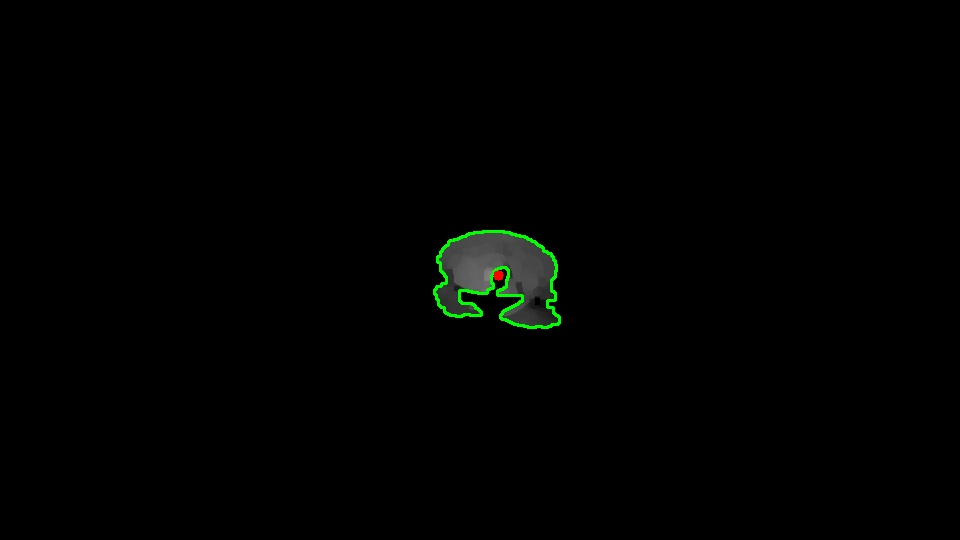
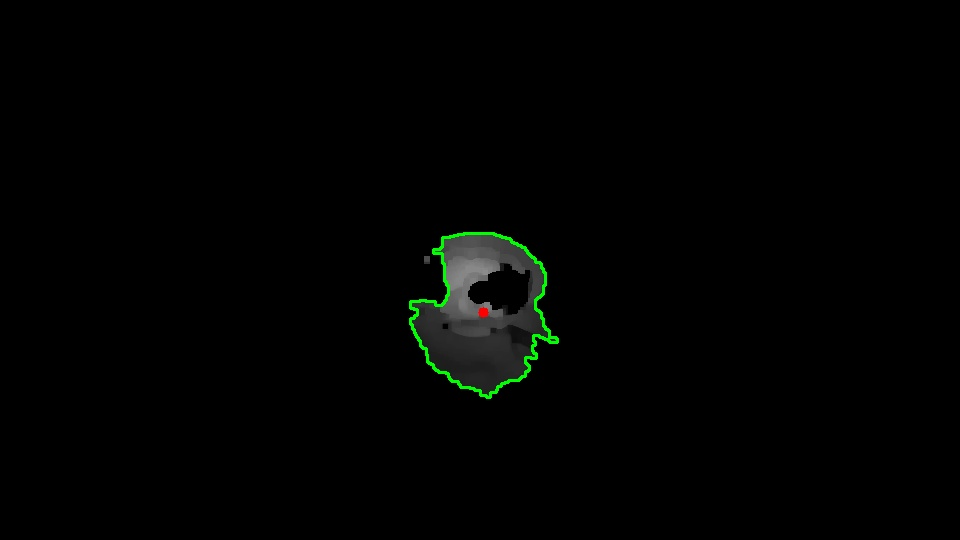
fix

Changed region(s): [[0.4062, 0.4148, 0.5938, 0.7407]]

diff --git a/python_sdk/fire_vision.py b/python_sdk/fire_vision.py
@@ -21,7 +21,7 @@ class Detector:
 
     x_random_range = 10
     y_random_range = 4
-    max_random_add = 30
+    max_random_add = 35
     found = False
     found_time = 0.0
     lost_time = 0.0
@@ -29,8 +29,8 @@ class Detector:
     lost = False
 
     y_base = 1900
-    y_sta = 10
-    y_k = 0.1
+    y_sta = 13
+    y_k = 0.15
     y_limit = (-20, 20)
 
     x_base = x_base_m
@@ -61,6 +61,8 @@ class Detector:
         fc.set_laser(False)
 
     def go_to_base(self):
+        self.x_pwm = self.x_base
+        self.y_pwm = self.y_base
         self.fc.set_two_servo_pulse(round(self.x_base), round(self.y_base))
 
     def process(self, loop=False):
@@ -103,7 +105,7 @@ class Detector:
                     random_add = min(random_add, self.max_random_add)
                     # dx += random.randint(-x_random_range - random_add, x_random_range + random_add)
                     # dy += random.randint(-y_random_range, y_random_range)
-                    dx += math.sin(time.perf_counter() * 10) * (
+                    dx += math.sin(time.perf_counter() * 15) * (
                         self.x_random_range + random_add
                     )
                     dy += math.sin(time.perf_counter() * 2) * (

diff --git a/python_sdk/run.py b/python_sdk/run.py
@@ -23,7 +23,6 @@ fc.start_listen_serial("/dev/ttyS6", print_state=False, block_until_connected=Tr
 fc.wait_for_connection()
 fc.motor_reset(fc.MOTOR_L | fc.MOTOR_R)
 fc.set_motor_mode(fc.MOTOR_L | fc.MOTOR_R, fc.SPD_CTRL)
-fc.set_two_servo_pulse(1500, 1500)
 radar = LD_Radar()
 radar.debug = False
 radar.start(subtask_skip=4)
@@ -105,7 +104,7 @@ time.sleep(2)
 calibrate()
 
 dl = 0.1
-target_speed = 0.22
+target_speed = 0.24
 
 
 def update_state(mpst, vel=None):
@@ -120,8 +119,8 @@ DT = 0.1
 
 from route import get_route
 
-x = 1.1
-y = 2.8
+x = 4.3
+y = 1.2
 enter_p, leave_p, side = get_route(x, y, dl=dl)
 try:
     last_update = time.perf_counter()

diff --git a/python_sdk/route.py b/python_sdk/route.py
@@ -1,4 +1,3 @@
-im!ort numpy as np
 from SC import calc_spline_course
 
 MATCH = {1: "x", 2: "x", 3: "y", 4: "y", 5: "y", 6: "y", 7: "x", 8: "x", 9: "y", 10: "y", 11: "y", 12: "y"}
